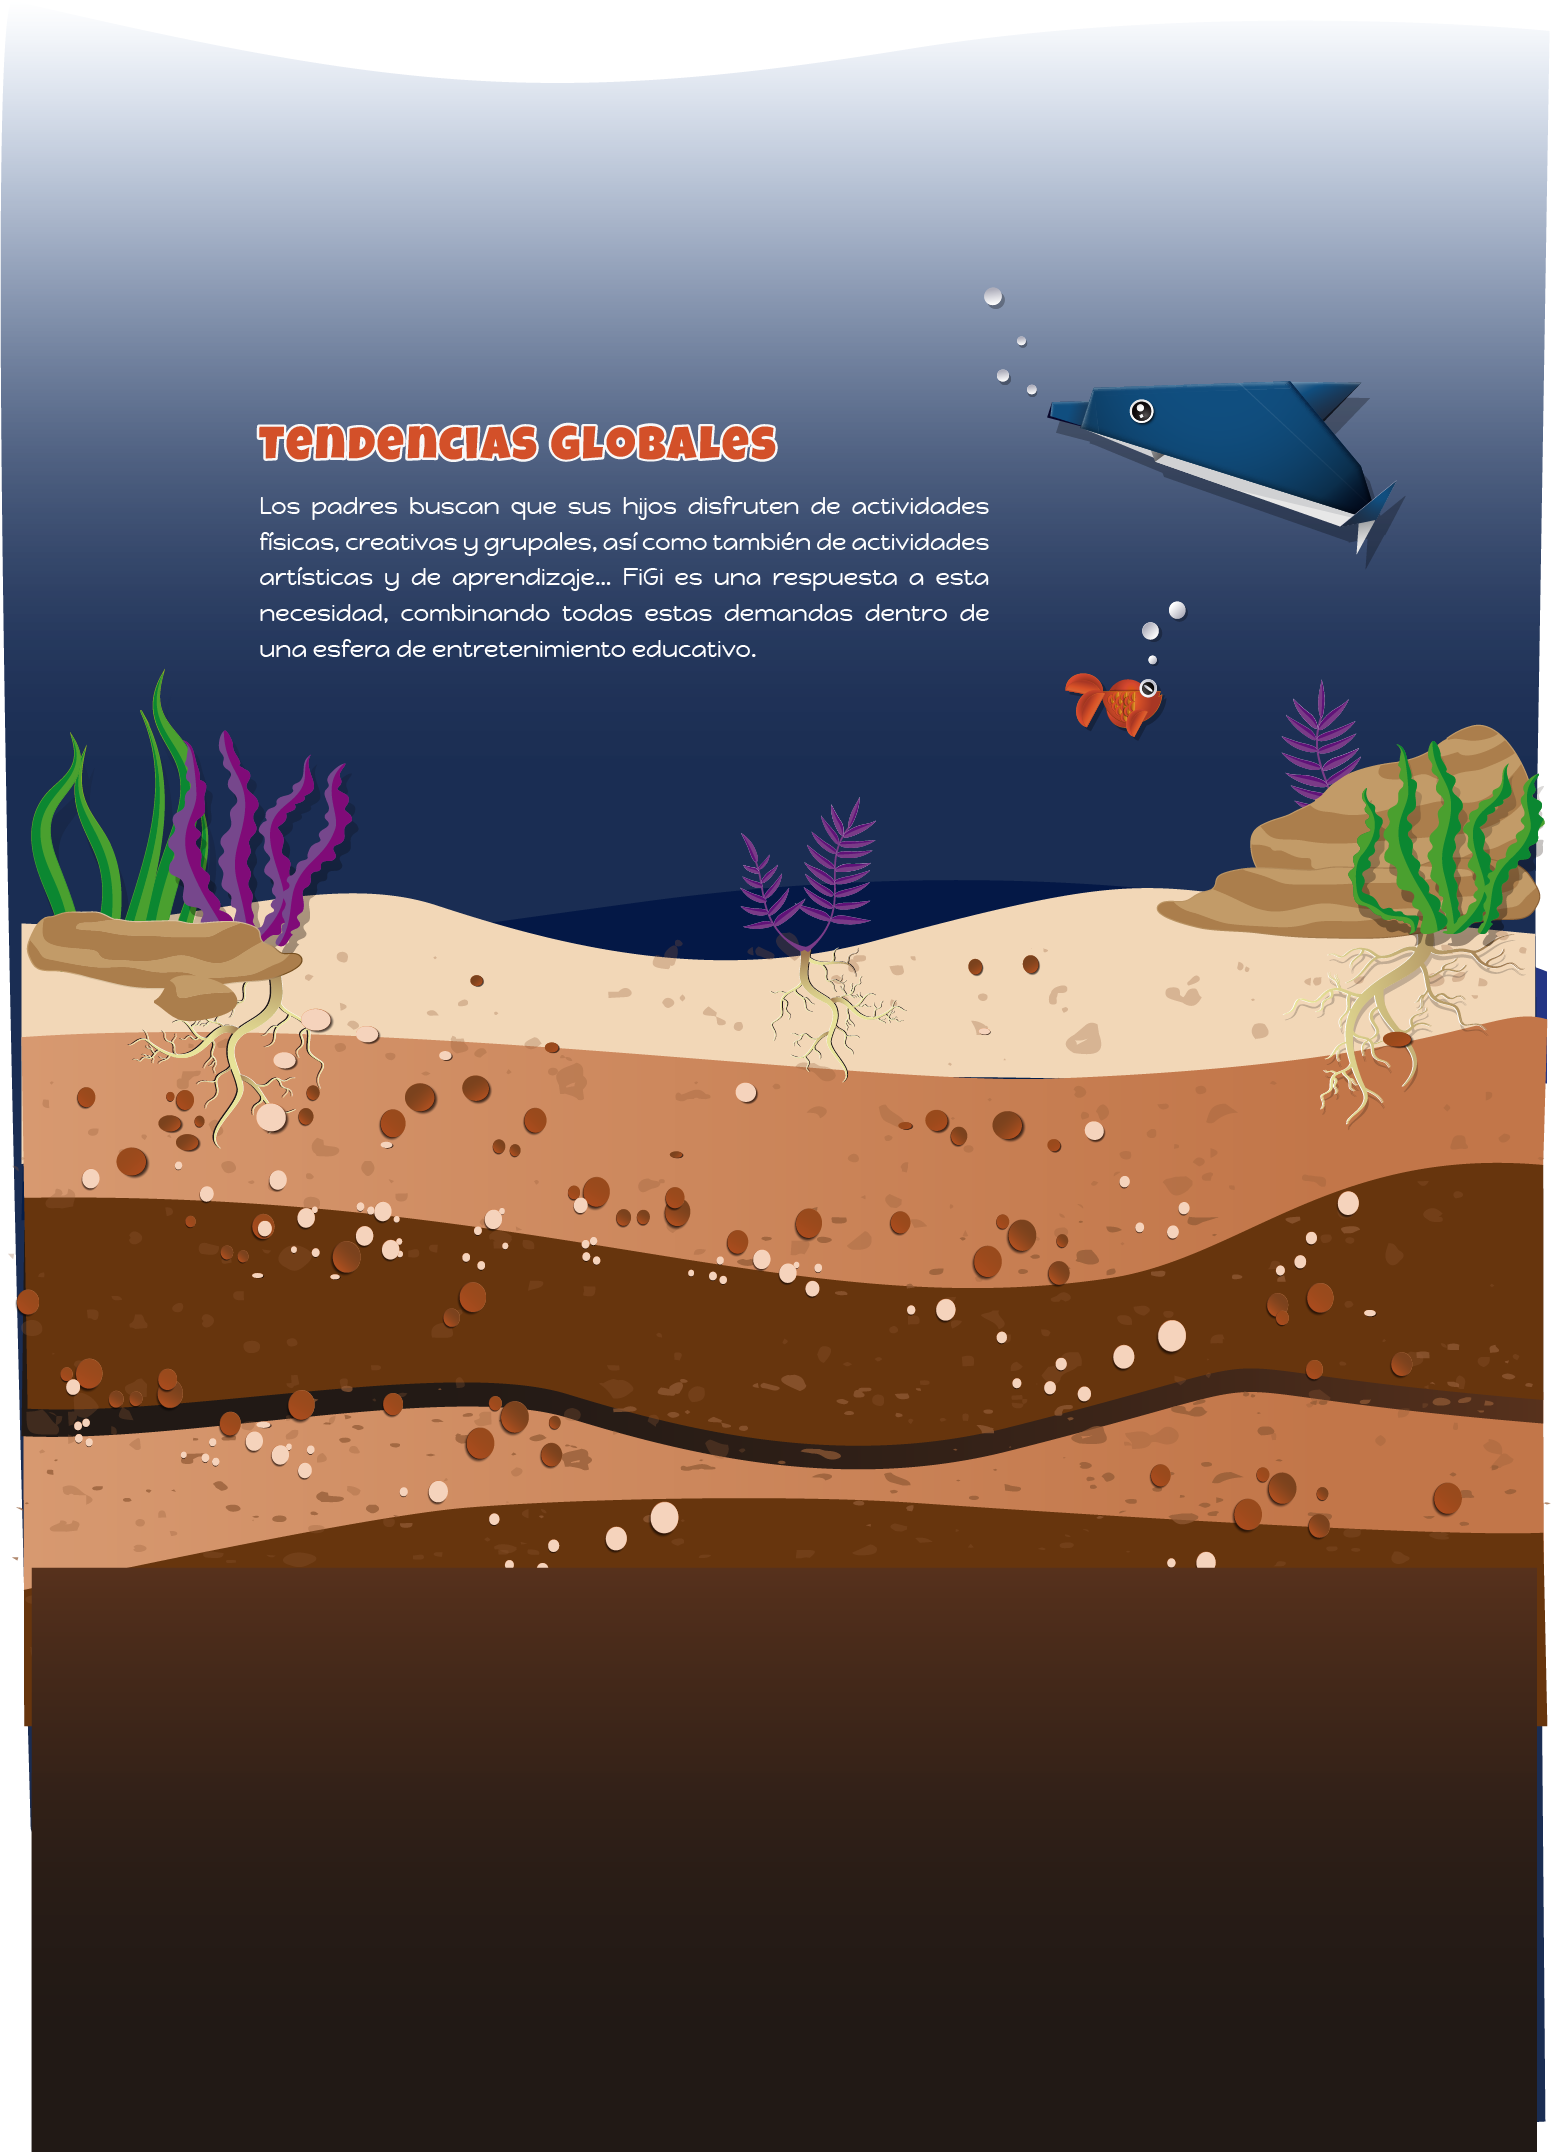
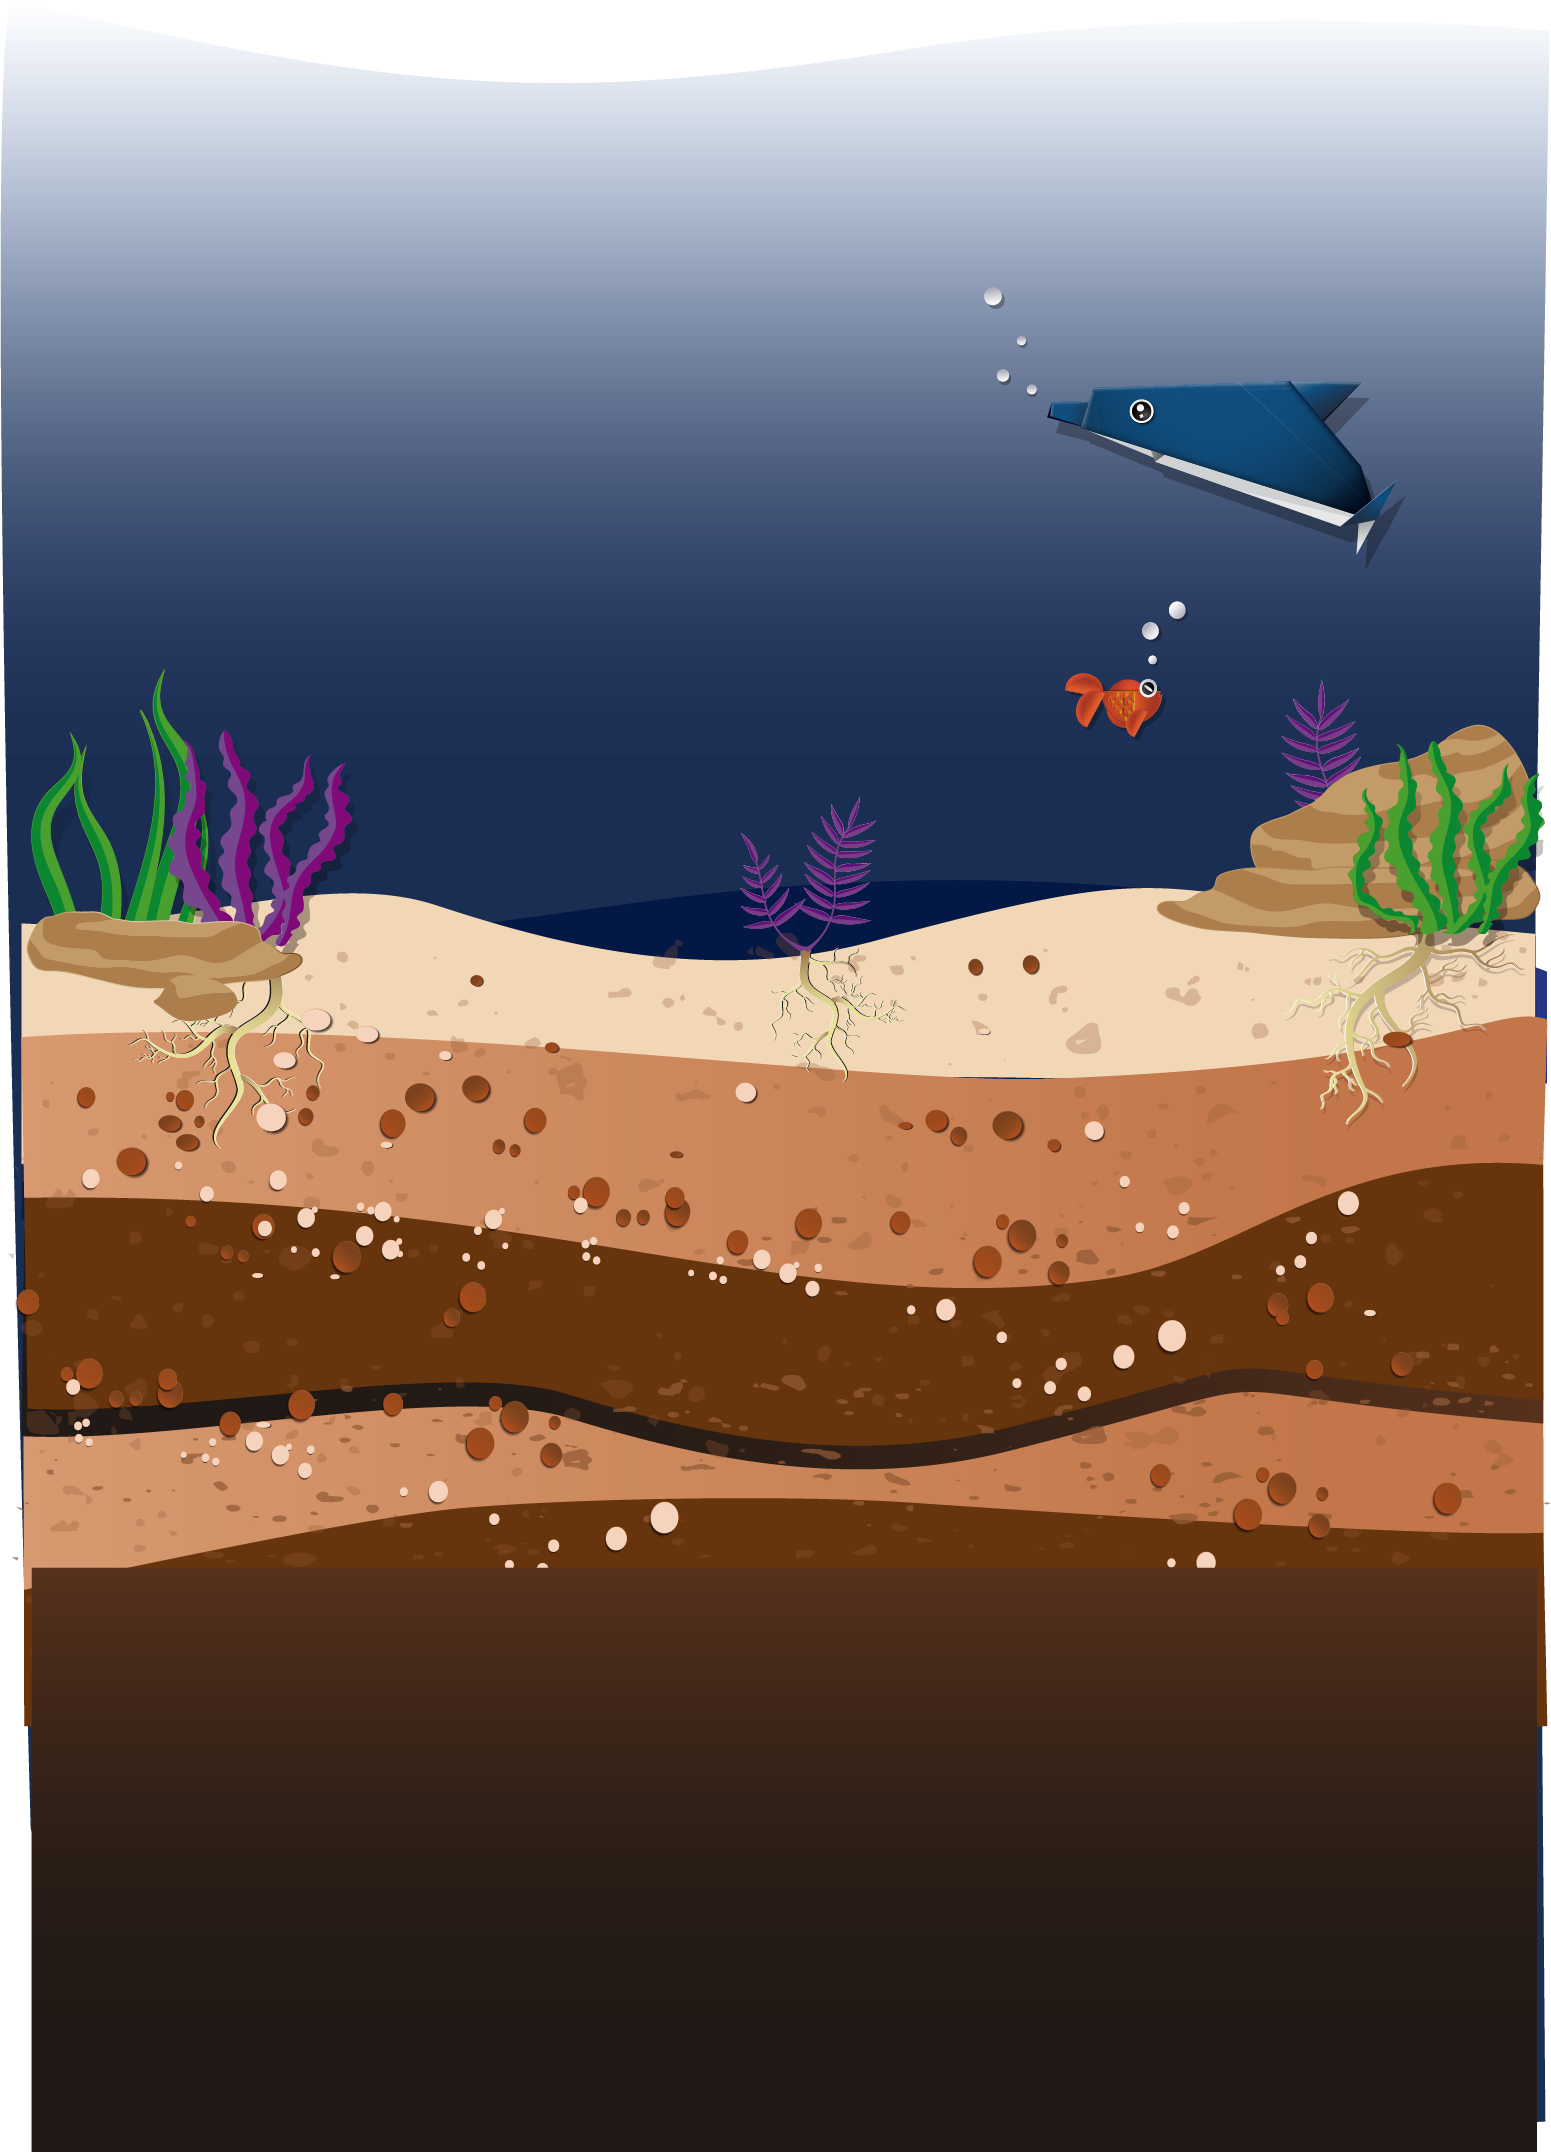
Add imga and transform img to text

Changed region(s): [[0.1547, 0.1868, 0.6499, 0.3113]]

diff --git a/src/assets/styles/trendimg.css b/src/assets/styles/trendimg.css
@@ -1,46 +1,50 @@
 .contenttrend{
     display: grid;
-    padding-top:150px;
-    width: 650px;
+    top: 450px;
+    width: 900px;
+    -webkit-justify-content: center;
     justify-content: center;
-    z-index: 3;
-    padding-left: 200px;
+    text-align: justify;
+    z-index: 9999;
+    left: 350px;
+    position: relative;
+    
 }
+
 .contenttrend h1{
     margin-bottom: 5px;
-    font-size: 45px;
+    font-size: 60px;
     font-family: 'Luckiest Guy', cursive;
-    color: #5e1a72;
+    color: #d34f29;
     -webkit-text-stroke: 1px white
-
-}
-.parksdesign{
-    display:grid;
-    justify-items: center;
-}
-.parksdesign h3{
-    margin-bottom:0;
-    padding-top: 66px;
-    font-size: 45px;
-    width: 900px;
-    font-family: 'Luckiest Guy', cursive;
-    color: #ffffff;
-    text-align: center;
-    -webkit-text-stroke: 1px #182c65;
-}
-.parksdesign p{
-    background-color: #1f3b5fb8;
-    text-align: center;
-    width: 800px;
-    vertical-align: center;
-    height: 35px;
-    border-radius:14px;
 }
 .contenttrend p{
-    font-size: 23px;
+    font-size: 30px;
     font-family: 'Happy Monkey', cursive;
     color: #ffffff;
     margin-top: 0px;
-    line-height: 30px;
+    line-height: 40px;
     z-index: 0;
+}
+@media screen and (max-width:1380px){
+    .contenttrend{
+        top: 350px;
+        left:200px;
+        width: 700px;
+    }
+    .contenttrend h1{
+        margin-bottom: 5px;
+        font-size: 45px;
+        font-family: 'Luckiest Guy', cursive;
+        color: #d34f29;
+        -webkit-text-stroke: 1px white
+    }
+    .contenttrend p{
+        font-size: 23px;
+        font-family: 'Happy Monkey', cursive;
+        color: #ffffff;
+        margin-top: 0px;
+        line-height: 30px;
+        z-index: 0;
+    }
 }

diff --git a/src/assets/styles/App.css b/src/assets/styles/App.css
@@ -102,7 +102,7 @@ padding-top: 100px;
   position:relative;
   display: grid;
   width: 100%;
-  margin-bottom: 900px;
+  margin-bottom: 870px;
 }
 #montanaback{
   position: relative;
@@ -143,32 +143,37 @@ padding-top: 100px;
   width: auto;
   margin-left: -100px;
   top:2950px;
+  z-index: -1;
 }
 #watercapaoculta{
   width: auto;
   margin-left: -100px;
   top:4000px;
-  z-index:-1;
+  z-index:-2;
 }
 #watercapa2{
   width: auto;
   margin-left: -100px;
   top:1300px;
+  z-index: -1;
 }
 #watercapa3{
   width: auto;
   margin-left: -200px;
   top:300px;
+  z-index: -1;
 }
 #watercapa4{
   width: auto;
   margin-left: -200px;
   top:200px;
+  z-index: -1;
 }
 #deep{
   width: 2000px;
   margin-left: -50px;
   top:7300px;
+  z-index: -1;
 }
 .fondoazul{
   z-index: -2;
@@ -182,6 +187,10 @@ padding-top: 100px;
 }
 .arena{
   top:-650px;
+  z-index: -1;
+}
+.shipwater{
+  z-index: -1;
 }
 @media screen and (max-width:1610px){
   #montanafront{
@@ -271,6 +280,7 @@ padding-top: 100px;
   width: 1400px;
   margin-left: -50px;
   top:7350px;
+  z-index:-1
 }
   .mainbackground #fondopart1{
     width: auto;
@@ -326,6 +336,6 @@ padding-top: 100px;
     margin-left:-100px;
   }
   .shippaper{
-    margin-bottom: 200px;
+    margin-bottom: 70px;
   }
 }

diff --git a/src/assets/styles/cardinfofigi.css b/src/assets/styles/cardinfofigi.css
@@ -8,6 +8,7 @@
     width: 350px;
     position: relative; 
     z-index: 2;
+    
 }
 #imgdecor{
     width: auto;
@@ -34,9 +35,6 @@
   z-index: 0;
   text-decoration: underline;
   margin-bottom: 20px;
-}
-.contentelements div{
-  padding-left:20px;
 }
 .contentelements2 div{
   padding-right:20px;
@@ -65,7 +63,8 @@
 #imgdecor2{
     width: auto;
     position: relative;
-    transform: scale(0.6); 
+    transform: scale(0.52); 
+    margin-left: 10px;
 }
 .cardinfo{
     display: flex;
@@ -83,10 +82,10 @@
   width: auto;
 }
 .contentelements #imgcardinfo{
-  padding-right: 100px;
+  padding-right: 150px;
 }
 .contentelements2 #imgcardinfo{
-  padding-left: 130px;
+  padding-left: 150px;
 }
 .contentelements{
     display:grid;
@@ -131,7 +130,7 @@
   padding-left:20px; 
 }
 .contentelements #imgcardinfo{
-  padding-right: 70px;
+  padding-right: 100px;
 }
 }
 @media screen and (max-width:1370px){
@@ -148,6 +147,6 @@
   padding-left:20px; 
 }
 .contentelements #imgcardinfo{
-  padding-right: 70px;
+  padding-right: 100px;
 }
 }

diff --git a/src/UIcomponents/trends.js b/src/UIcomponents/trends.js
@@ -4,26 +4,17 @@ import '../assets/styles/trendimg.css';
 class trends extends Component {
   render() {
     return (
-      <div className="contenttrend">    
+      <div className="contenttrend">
+        
         <div> 
-          <h1>
-            Tendencias Globales 
-          </h1>
+        <h1>TenDenciAs GLoBALeS</h1>  
           <p>
             Los padres buscan que sus hijos disfruten de
             actividades fisicas, creativas y de grupo, lo mismo que
             de actividaes artisticas y de aprendizaje… FiGi es una
             respuesta a este clamor colectivo, combinando todas
             estas demandas dentro de una esfera de
-            entretenimiento educativo.
-          </p>
-        </div>
-        <div class="parksdesign">
-          <h3>
-            Diferentes diseños de Parques
-          </h3>
-          <p>
-            Definido por el numero de atracciones y metros cuadrados
+            entretenimiento educativo..
           </p>
         </div>
       </div>

diff --git a/src/assets/styles/imgend.css b/src/assets/styles/imgend.css
@@ -6,27 +6,32 @@
 .contentimgsh #imgend{
     width:100%;
     position: absolute;
-    top: 99%;
+    top: 96.5%;
 }
 .contentimgsh #imgend2{
     padding-top: 600px;
     position: absolute; 
-    top: 99.5%;
+    top: 95.5%;
     width: 1000px;
     padding-left: 450px;
 }
-@media screen and (max-width:1610px){
+@media screen and (max-width:1370px){
+    .contentimgsh #imgend{
+        width:100%;
+        position: absolute;
+        top: 93%;
+    }
     .contentimgsh #imgend2{
-        top: 97%;
-        padding-left: 300px;
+        top: 90%;
+        padding-left: 110px;
     }
 }
-@media screen and (max-width:1370px){
+/* @media screen and (max-width:1370px){
     .contentimgsh #imgend{
         top: 100%;
     }
     .contentimgsh #imgend2{
-        top: 98.5%;
+        top: 94.5%;
         padding-left: 210px;
     }
 }
@@ -36,6 +41,6 @@
         padding-left: 100px;
     }
     .contentimgsh #imgend{
-        top: 94%;
+        top: 91%;
     }
-}
+}  */

diff --git a/src/App.js b/src/App.js
@@ -107,7 +107,7 @@ class App extends Component {
               <div className="shippaper">
                 <div className="containhill">
                   <img className="arena" src={arena}></img>
-                  <img src={shipwater}></img>
+                  <img  className="shipwater"src={shipwater}></img>
                   <img id="watercapa4" className="lax" data-lax-preset="driftLeft" src={watercapa4}></img>
                   <img id="watercapa3" className="lax" data-lax-preset="driftRight" src={watercapa3}></img>
                   <img id="watercapa2" src={watercapa2}></img>
@@ -122,6 +122,7 @@ class App extends Component {
                   <Parkfigi/>
                   <Cardinfofigi/>
                   <Listparksfigi/>
+                  <Trendimg/>
                   <Imgend/>
                 </div>
               </div>
